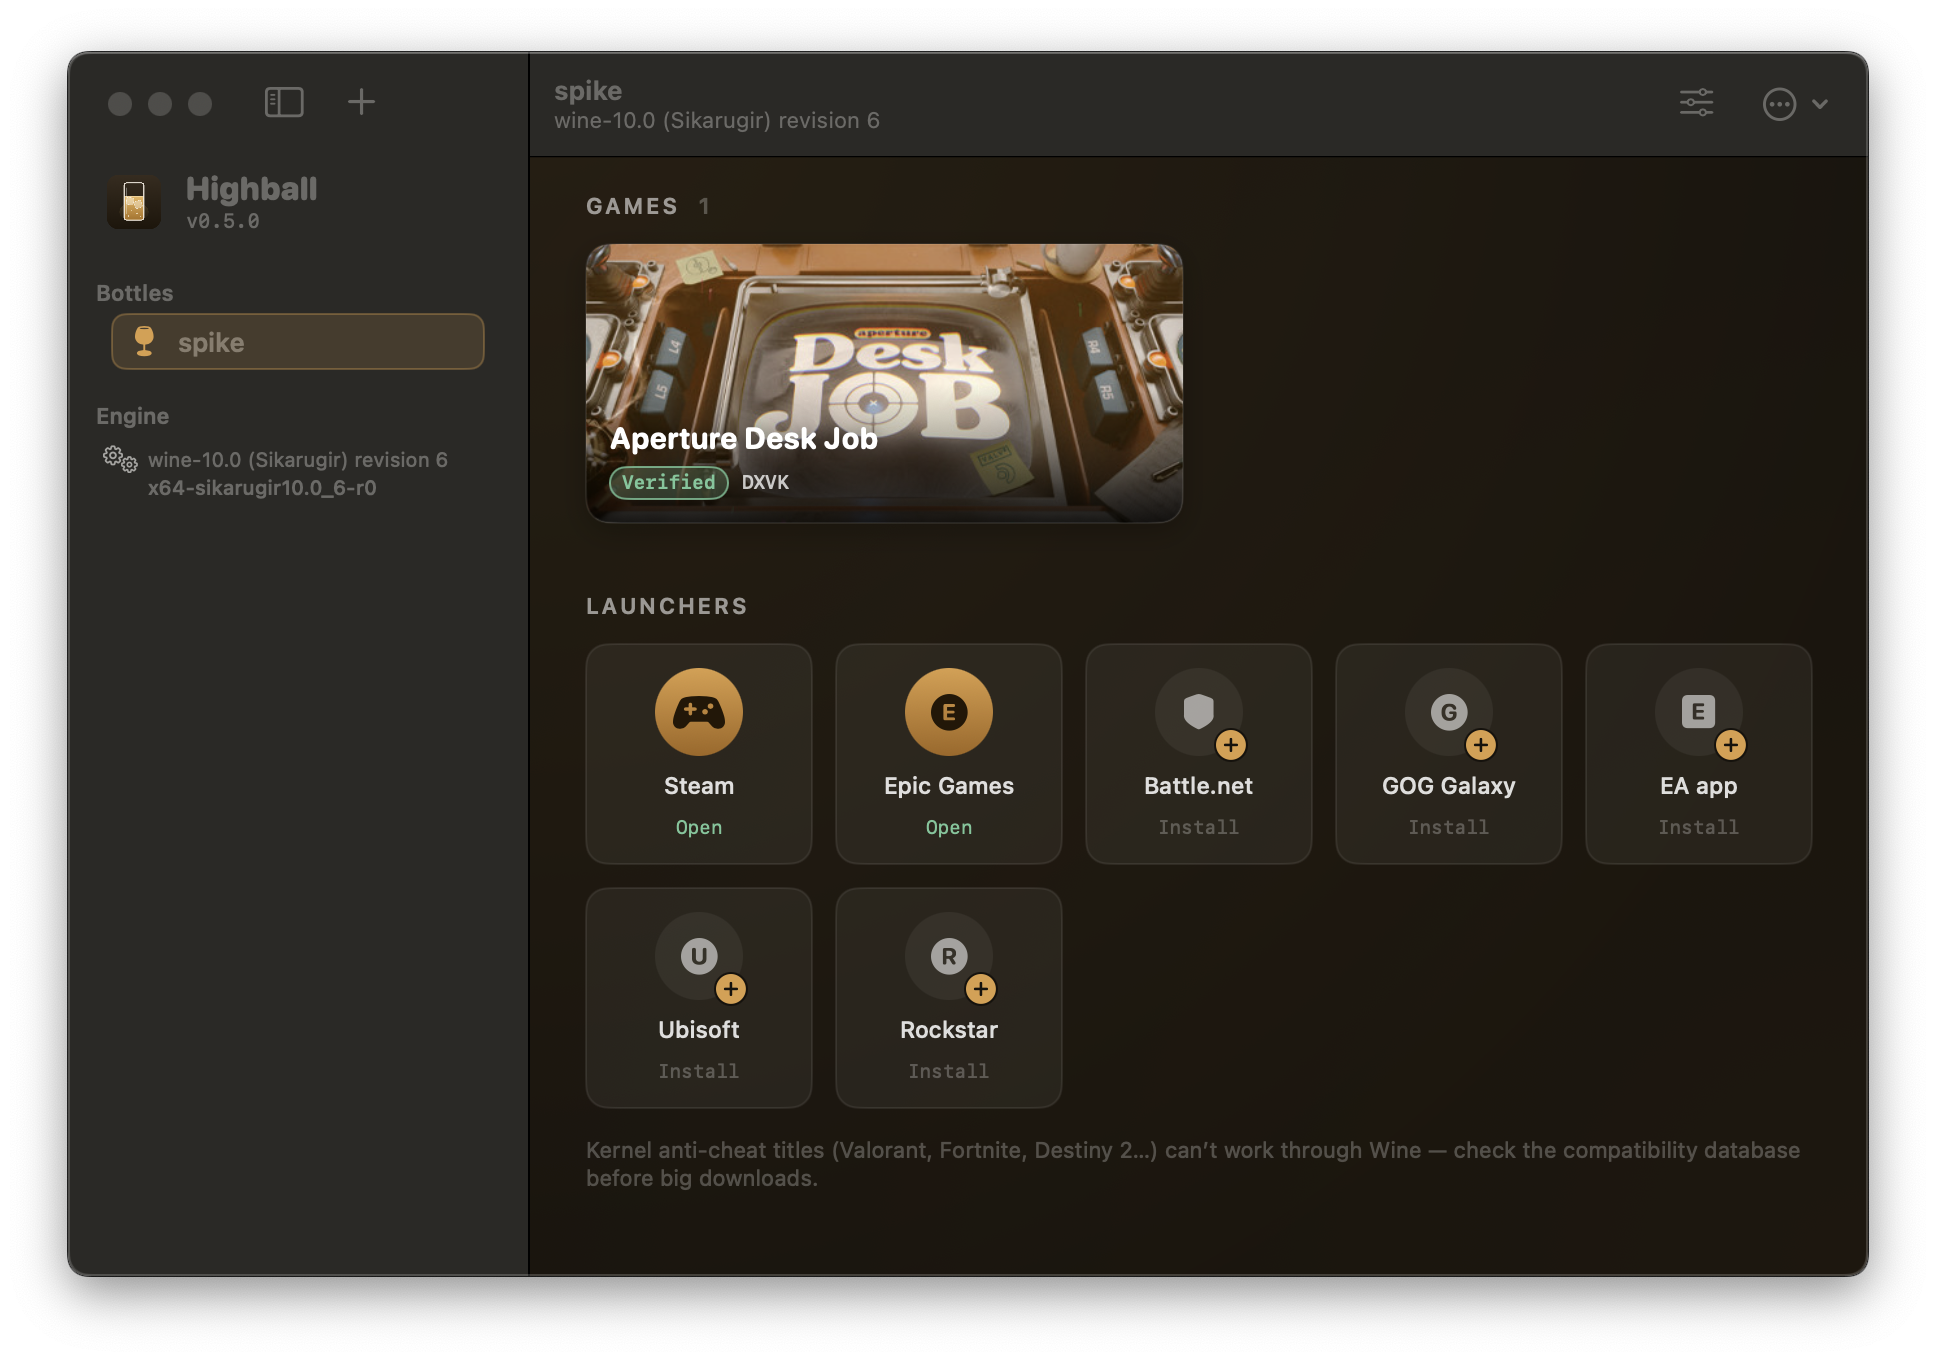
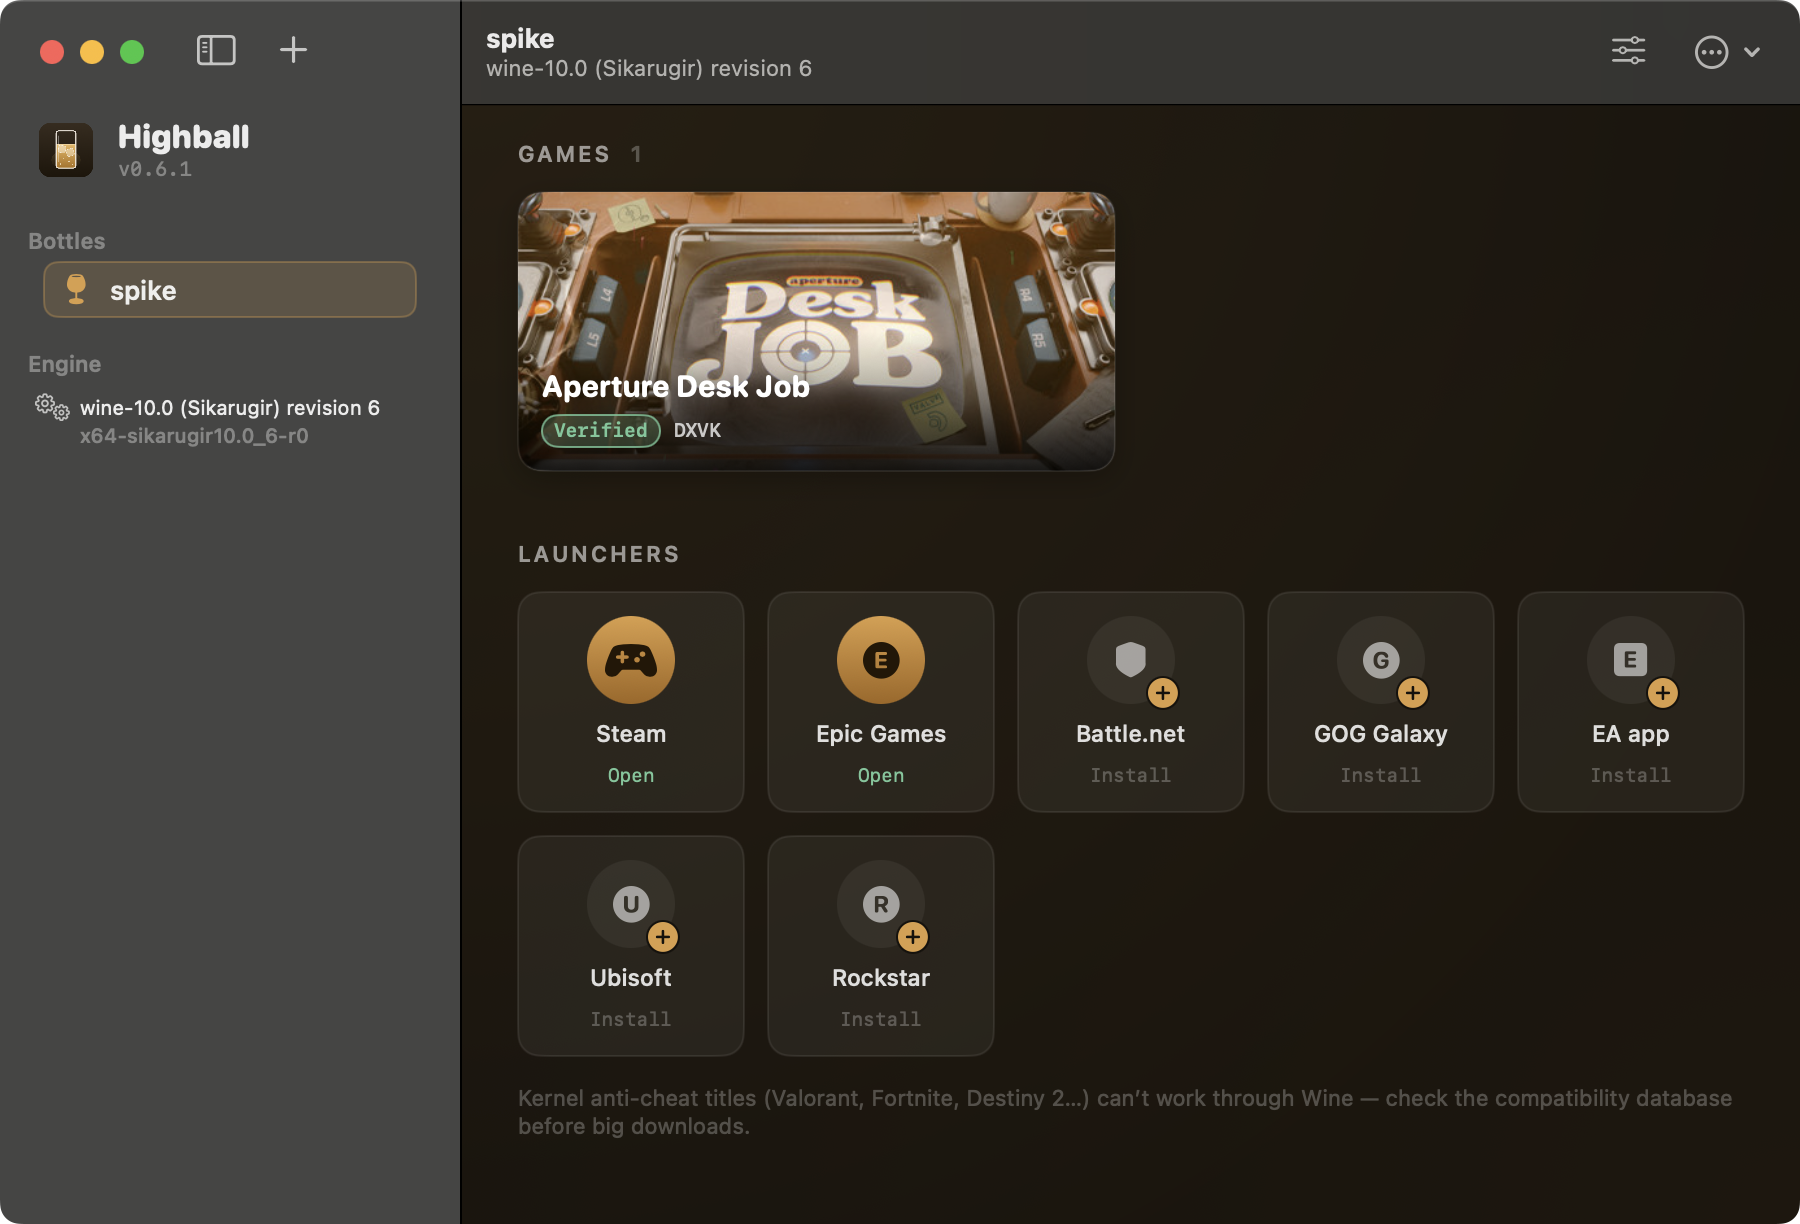
docs: refresh app screenshot to 0.6.1; make highball-db findable up top
README intro now links the highball-db repo and the browsable site
directly; What-works table gains the community Cyberpunk 2077 result,
the one-click VC++ dependencies, and the honest .NET limitation (#16);
report flow mentions the in-app button. Screenshot retaken from the
0.6.1 release build (window-only capture, v0.6.1 badge visible) — also
updates the landing page hero and OG image (docs/app.png).

diff --git a/README.md b/README.md
@@ -7,6 +7,8 @@
 Highball is a native macOS app (and CLI) that sets up Wine, DXMT, D3DMetal and DXVK for
 you, installs Steam and other launchers with one click, and tells you honestly what runs,
 what doesn't, and which renderer to use — backed by an open, CC0 compatibility database
+([highball-db](https://github.com/gauthierpiarrette/highball-db), browsable at
+[gauthierpiarrette.github.io/highball-db](https://gauthierpiarrette.github.io/highball-db/))
 where every claim carries its provenance.
 
 > Status: **beta**. Notarized, auto-updating, working end to end: engine install → bottle →
@@ -54,7 +56,7 @@ Everything lives in `~/Library/Application Support/Highball/`. Nothing touches `
 
 ## What works
 
-*Reference test machine: Apple M1 Pro · macOS 14.6 — results on other chips welcome via `highball report`.*
+*Reference test machine: Apple M1 Pro · macOS 14.6; community reports cover M5 and macOS 15/26. Send yours via Highball menu → Report a Problem, or `highball report`.*
 
 | | |
 |---|---|
@@ -62,6 +64,9 @@ Everything lives in `~/Library/Application Support/Highball/`. Nothing touches `
 | Aperture Desk Job | ✅ DXVK correct ~31 fps · ⚠ D3DMetal fast but corrupted · ❌ DXMT black screen |
 | Renderer switching | ✅ per bottle and per pinned program, no reinstall |
 | 32-bit programs | ✅ via Wine WoW64 (Steam's own 32-bit bootstrapper ran) |
+| Cyberpunk 2077 | ✅ community-verified on M5 / macOS 15 (D3DMetal + AVX + `--launcher-skip`, ~17 fps Steam Deck preset) |
+| Windows runtimes (VC++ 2015-2022) | ✅ one-click per bottle (Settings → Dependencies) |
+| .NET Framework games (e.g. Assetto Corsa) | ❌ not yet — .NET can't install on the current engine ([#16](https://github.com/gauthierpiarrette/highball/issues/16)) |
 | Kernel anti-cheat (Valorant, Fortnite, Destiny 2…) | ❌ structurally impossible — flagged in the DB before you download 80 GB |
 
 ## Architecture in one paragraph
@@ -77,7 +82,8 @@ this repository.
 
 ## Contributing
 
-- **Reports**: run something, then `highball report <bottle> "<title>" --rating N` — it
+- **Reports**: in the app, Highball menu → **Report a Problem** (pre-filled with your system info
+  and log). From the CLI: `highball report <bottle> "<title>" --rating N` — it
   opens a pre-filled issue on [highball-db](https://github.com/gauthierpiarrette/highball-db). Accepted reports are folded into `db/reports/` by CI.
 - **Recipes**: PRs to [highball-db](https://github.com/gauthierpiarrette/highball-db) `recipes/` with the CLI output attached. Every recipe carries
   `lastVerified` (engine id, macOS, chip) so stale data is visible, not silently wrong.
